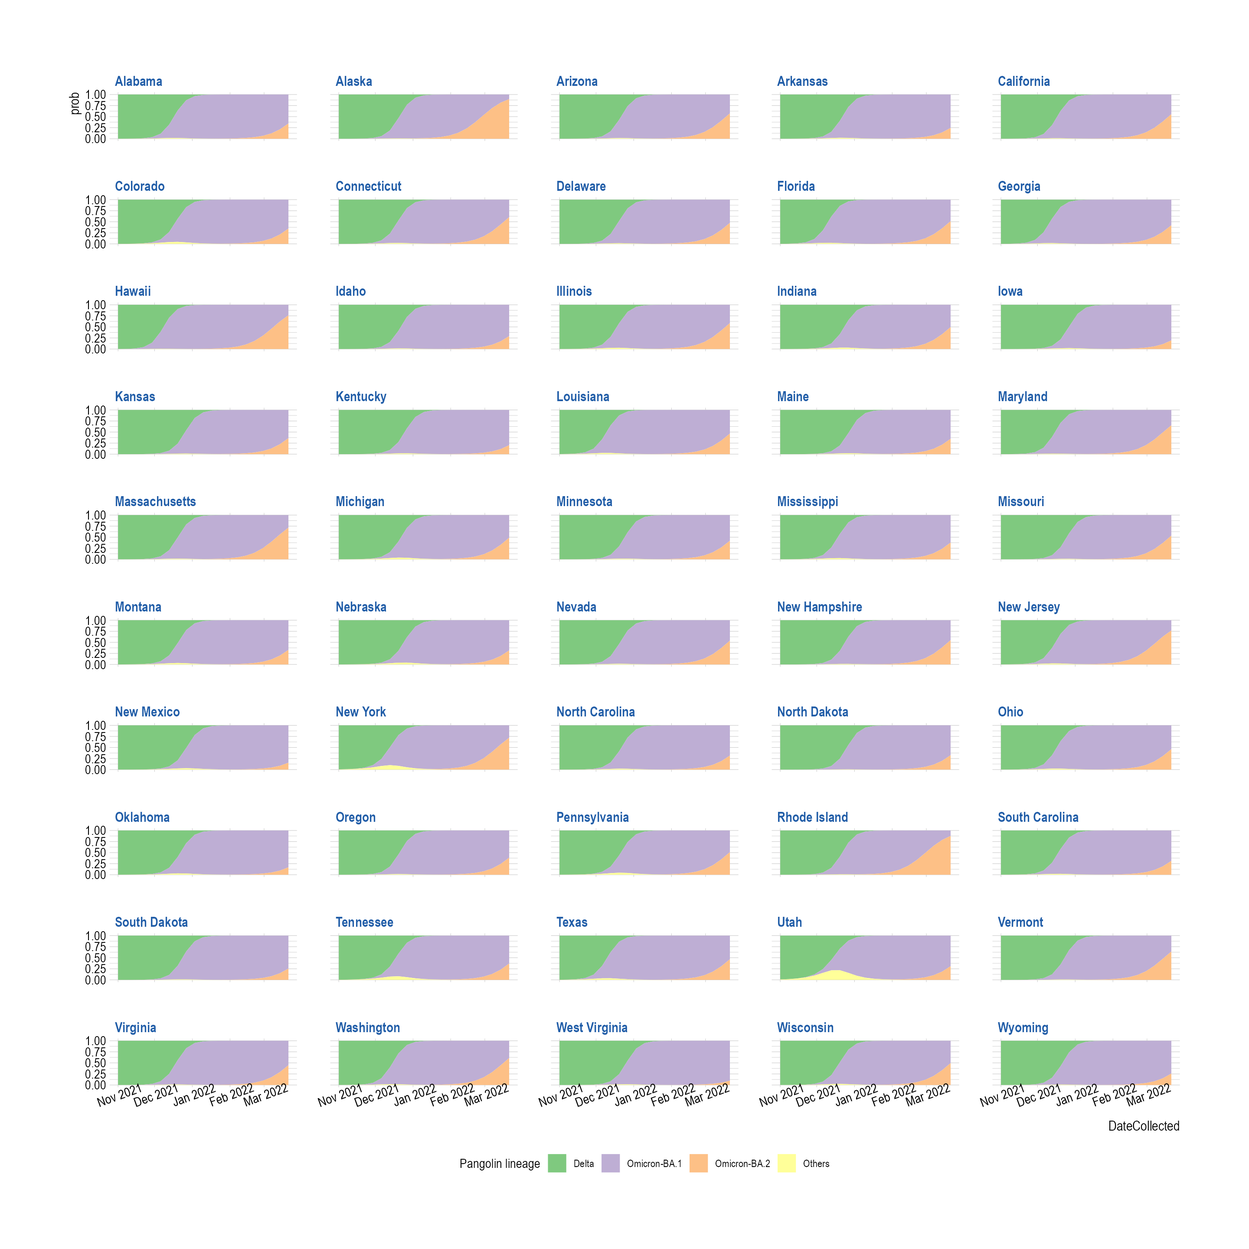
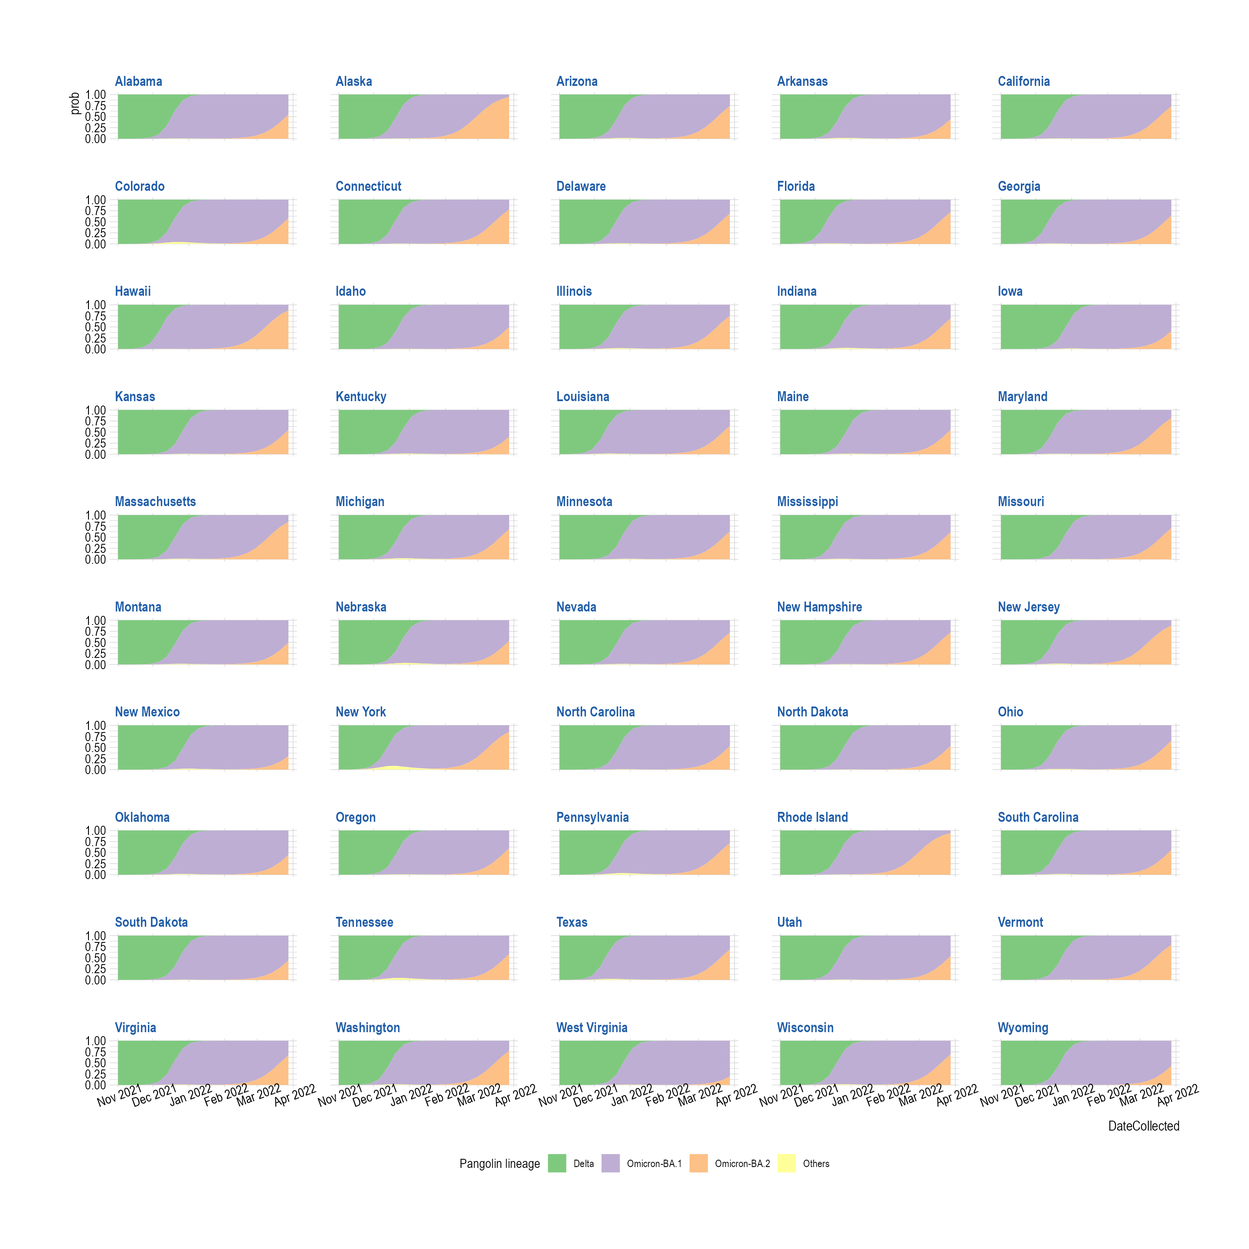
Update VOCs

diff --git a/docs/articles/MultinomialModeling_USA.html b/docs/articles/MultinomialModeling_USA.html
@@ -114,62 +114,59 @@
 <span class="co">##   <span style="color: #949494; font-style: italic;">&lt;chr&gt;</span>                  <span style="color: #949494; font-style: italic;">&lt;dbl&gt;</span> <span style="color: #949494; font-style: italic;">&lt;chr&gt;</span>             <span style="color: #949494; font-style: italic;">&lt;int&gt;</span></span>
 <span class="co">## <span style="color: #BCBCBC;">1</span> Alabama                <span style="text-decoration: underline;">18</span>932 Delta                15</span>
 <span class="co">## <span style="color: #BCBCBC;">2</span> Alabama                <span style="text-decoration: underline;">18</span>933 Delta                 9</span>
-<span class="co">## <span style="color: #BCBCBC;">3</span> Alabama                <span style="text-decoration: underline;">18</span>934 Delta                 9</span>
-<span class="co">## <span style="color: #BCBCBC;">4</span> Alabama                <span style="text-decoration: underline;">18</span>934 Others                1</span>
-<span class="co">## <span style="color: #BCBCBC;">5</span> Alabama                <span style="text-decoration: underline;">18</span>935 Delta                 8</span>
-<span class="co">## <span style="color: #BCBCBC;">6</span> Alabama                <span style="text-decoration: underline;">18</span>935 Others                1</span></code></pre>
+<span class="co">## <span style="color: #BCBCBC;">3</span> Alabama                <span style="text-decoration: underline;">18</span>934 Delta                10</span>
+<span class="co">## <span style="color: #BCBCBC;">4</span> Alabama                <span style="text-decoration: underline;">18</span>935 Delta                 8</span>
+<span class="co">## <span style="color: #BCBCBC;">5</span> Alabama                <span style="text-decoration: underline;">18</span>935 Others                1</span>
+<span class="co">## <span style="color: #BCBCBC;">6</span> Alabama                <span style="text-decoration: underline;">18</span>936 Delta                 8</span></code></pre>
 <div class="sourceCode" id="cb4"><pre class="downlit sourceCode r">
 <code class="sourceCode R"><span class="va">fit_usa_multi_predsbystate</span> <span class="op">&lt;-</span> <span class="fu">FitMultinomStatewiseDaily</span><span class="op">(</span><span class="va">gisaid_usa_shared_dateweek</span><span class="op">)</span></code></pre></div>
 <pre><code><span class="co">## # weights:  208 (153 variable)</span>
-<span class="co">## initial  value 1645956.999018 </span>
-<span class="co">## iter  10 value 898148.852584</span>
-<span class="co">## iter  20 value 887162.800140</span>
-<span class="co">## iter  30 value 743431.540208</span>
-<span class="co">## iter  40 value 679778.894247</span>
-<span class="co">## iter  50 value 655496.925840</span>
-<span class="co">## iter  60 value 585270.119715</span>
-<span class="co">## iter  70 value 542408.200742</span>
-<span class="co">## iter  80 value 500435.603800</span>
-<span class="co">## iter  90 value 477352.731822</span>
-<span class="co">## iter 100 value 455988.109671</span>
-<span class="co">## iter 110 value 435262.996021</span>
-<span class="co">## iter 120 value 415752.600467</span>
-<span class="co">## iter 130 value 399266.612298</span>
-<span class="co">## iter 140 value 374075.101389</span>
-<span class="co">## iter 150 value 353088.577738</span>
-<span class="co">## iter 160 value 324769.815968</span>
-<span class="co">## iter 170 value 294493.181721</span>
-<span class="co">## iter 180 value 286831.021889</span>
-<span class="co">## iter 190 value 283915.092854</span>
-<span class="co">## iter 200 value 282438.647238</span>
-<span class="co">## iter 210 value 282090.322165</span>
-<span class="co">## iter 220 value 281915.834934</span>
-<span class="co">## iter 230 value 281779.033841</span>
-<span class="co">## iter 240 value 281716.271740</span>
-<span class="co">## iter 250 value 281671.841530</span>
-<span class="co">## iter 260 value 281656.350666</span>
-<span class="co">## iter 270 value 281654.222134</span>
-<span class="co">## iter 280 value 281653.950036</span>
-<span class="co">## iter 280 value 281653.947454</span>
-<span class="co">## iter 280 value 281653.947344</span>
-<span class="co">## final  value 281653.947344 </span>
+<span class="co">## initial  value 1687594.350154 </span>
+<span class="co">## iter  10 value 925465.614996</span>
+<span class="co">## iter  20 value 917280.105999</span>
+<span class="co">## iter  30 value 795044.630373</span>
+<span class="co">## iter  40 value 728060.245292</span>
+<span class="co">## iter  50 value 695798.601743</span>
+<span class="co">## iter  60 value 642618.609568</span>
+<span class="co">## iter  70 value 599340.901424</span>
+<span class="co">## iter  80 value 558243.783763</span>
+<span class="co">## iter  90 value 537490.374438</span>
+<span class="co">## iter 100 value 503042.277002</span>
+<span class="co">## iter 110 value 478068.068205</span>
+<span class="co">## iter 120 value 454750.348072</span>
+<span class="co">## iter 130 value 422877.848441</span>
+<span class="co">## iter 140 value 389541.690425</span>
+<span class="co">## iter 150 value 355746.411211</span>
+<span class="co">## iter 160 value 328733.036681</span>
+<span class="co">## iter 170 value 299042.288814</span>
+<span class="co">## iter 180 value 289222.430981</span>
+<span class="co">## iter 190 value 283633.097198</span>
+<span class="co">## iter 200 value 280731.927205</span>
+<span class="co">## iter 210 value 279901.767003</span>
+<span class="co">## iter 220 value 279732.729203</span>
+<span class="co">## iter 230 value 279686.394327</span>
+<span class="co">## iter 240 value 279649.271045</span>
+<span class="co">## iter 250 value 279629.879262</span>
+<span class="co">## iter 260 value 279624.034306</span>
+<span class="co">## iter 270 value 279623.693894</span>
+<span class="co">## final  value 279623.688223 </span>
 <span class="co">## converged</span></code></pre>
 <div class="sourceCode" id="cb6"><pre class="downlit sourceCode r">
 <code class="sourceCode R"><span class="fu"><a href="https://rdrr.io/r/utils/head.html" class="external-link">head</a></span><span class="op">(</span><span class="va">fit_usa_multi_predsbystate</span><span class="op">)</span></code></pre></div>
 <pre><code><span class="co">##   lineage_collapsed DateCollectedNumeric   State         prob           SE df</span>
-<span class="co">## 1             Delta                18932 Alabama 9.993124e-01 5.565615e-06 NA</span>
-<span class="co">## 2      Omicron-BA.1                18932 Alabama 1.328092e-04 5.724576e-07 NA</span>
-<span class="co">## 3      Omicron-BA.2                18932 Alabama 1.042601e-10 9.732116e-13 NA</span>
-<span class="co">## 4            Others                18932 Alabama 5.548185e-04 5.394268e-06 NA</span>
-<span class="co">## 5             Delta                18939 Alabama 9.984420e-01 1.091959e-05 NA</span>
-<span class="co">## 6      Omicron-BA.1                18939 Alabama 5.134192e-04 2.212392e-06 NA</span>
+<span class="co">## 1             Delta                18932 Alabama 9.998832e-01 5.557255e-07 NA</span>
+<span class="co">## 2      Omicron-BA.1                18932 Alabama 9.053178e-05 3.941524e-07 NA</span>
+<span class="co">## 3      Omicron-BA.2                18932 Alabama 4.978320e-11 4.315190e-13 NA</span>
+<span class="co">## 4            Others                18932 Alabama 2.622329e-05 2.955617e-07 NA</span>
+<span class="co">## 5             Delta                18939 Alabama 9.995640e-01 1.962904e-06 NA</span>
+<span class="co">## 6      Omicron-BA.1                18939 Alabama 3.679577e-04 1.602093e-06 NA</span>
 <span class="co">##      asymp.LCL    asymp.UCL DateCollected</span>
-<span class="co">## 1 9.993015e-01 9.993233e-01    2021-11-01</span>
-<span class="co">## 2 1.316872e-04 1.339312e-04    2021-11-01</span>
-<span class="co">## 3 1.023527e-10 1.061676e-10    2021-11-01</span>
-<span class="co">## 4 5.442459e-04 5.653910e-04    2021-11-01</span>
-<span class="co">## 5 9.984206e-01 9.984634e-01    2021-11-08</span>
-<span class="co">## 6 5.090830e-04 5.177554e-04    2021-11-08</span></code></pre>
+<span class="co">## 1 9.998822e-01 9.998843e-01    2021-11-01</span>
+<span class="co">## 2 8.975925e-05 9.130430e-05    2021-11-01</span>
+<span class="co">## 3 4.893744e-11 5.062896e-11    2021-11-01</span>
+<span class="co">## 4 2.564400e-05 2.680258e-05    2021-11-01</span>
+<span class="co">## 5 9.995601e-01 9.995678e-01    2021-11-08</span>
+<span class="co">## 6 3.648176e-04 3.710977e-04    2021-11-08</span></code></pre>
 <div class="section level2">
 <h2 id="plot-smooth-muller-plots">Plot Smooth Muller Plots<a class="anchor" aria-label="anchor" href="#plot-smooth-muller-plots"></a>
 </h2>

diff --git a/docs/articles/MultinomialModeling_India.html b/docs/articles/MultinomialModeling_India.html
@@ -121,43 +121,45 @@
 <div class="sourceCode" id="cb4"><pre class="downlit sourceCode r">
 <code class="sourceCode R"><span class="va">fit_india_multi_predsbystate</span> <span class="op">&lt;-</span> <span class="fu">FitMultinomStatewiseDaily</span><span class="op">(</span><span class="va">gisaid_india_shared_dateweek</span><span class="op">)</span></code></pre></div>
 <pre><code><span class="co">## # weights:  152 (111 variable)</span>
-<span class="co">## initial  value 82111.601303 </span>
-<span class="co">## iter  10 value 64150.912064</span>
-<span class="co">## iter  20 value 62639.678672</span>
-<span class="co">## iter  30 value 61211.097643</span>
-<span class="co">## iter  40 value 60061.457270</span>
-<span class="co">## iter  50 value 58247.714949</span>
-<span class="co">## iter  60 value 54144.268962</span>
-<span class="co">## iter  70 value 49209.958748</span>
-<span class="co">## iter  80 value 46462.544702</span>
-<span class="co">## iter  90 value 44649.653482</span>
-<span class="co">## iter 100 value 43275.356893</span>
-<span class="co">## iter 110 value 40959.192442</span>
-<span class="co">## iter 120 value 39052.423747</span>
-<span class="co">## iter 130 value 38505.957307</span>
-<span class="co">## iter 140 value 38316.970938</span>
-<span class="co">## iter 150 value 38198.678679</span>
-<span class="co">## iter 160 value 38111.806225</span>
-<span class="co">## iter 170 value 38111.333713</span>
-<span class="co">## iter 180 value 38111.196498</span>
-<span class="co">## final  value 38111.181895 </span>
+<span class="co">## initial  value 88372.106638 </span>
+<span class="co">## iter  10 value 69889.391942</span>
+<span class="co">## iter  20 value 68058.883807</span>
+<span class="co">## iter  30 value 65562.399815</span>
+<span class="co">## iter  40 value 64184.441542</span>
+<span class="co">## iter  50 value 61457.573892</span>
+<span class="co">## iter  60 value 55914.991142</span>
+<span class="co">## iter  70 value 50532.127068</span>
+<span class="co">## iter  80 value 48591.856381</span>
+<span class="co">## iter  90 value 47013.898816</span>
+<span class="co">## iter 100 value 45273.966416</span>
+<span class="co">## iter 110 value 42338.717051</span>
+<span class="co">## iter 120 value 40509.337536</span>
+<span class="co">## iter 130 value 40179.675285</span>
+<span class="co">## iter 140 value 39955.133459</span>
+<span class="co">## iter 150 value 39905.435526</span>
+<span class="co">## iter 160 value 39901.037055</span>
+<span class="co">## iter 170 value 39900.782053</span>
+<span class="co">## iter 180 value 39900.740273</span>
+<span class="co">## iter 180 value 39900.739997</span>
+<span class="co">## iter 180 value 39900.739997</span>
+<span class="co">## final  value 39900.739997 </span>
 <span class="co">## converged</span></code></pre>
 <div class="sourceCode" id="cb6"><pre class="downlit sourceCode r">
 <code class="sourceCode R"><span class="fu"><a href="https://rdrr.io/r/utils/head.html" class="external-link">head</a></span><span class="op">(</span><span class="va">fit_india_multi_predsbystate</span><span class="op">)</span></code></pre></div>
 <pre><code><span class="co">##   lineage_collapsed DateCollectedNumeric             State         prob</span>
-<span class="co">## 1             Delta                18932 Andaman &amp; Nicobar 9.957635e-01</span>
-<span class="co">## 2      Omicron-BA.1                18932 Andaman &amp; Nicobar 4.160660e-03</span>
-<span class="co">## 3      Omicron-BA.2                18932 Andaman &amp; Nicobar 7.513713e-05</span>
-<span class="co">## 4            Others                18932 Andaman &amp; Nicobar 7.018545e-07</span>
-<span class="co">## 5             Delta                18939 Andaman &amp; Nicobar 9.915148e-01</span>
-<span class="co">## 6      Omicron-BA.1                18939 Andaman &amp; Nicobar 8.220825e-03</span>
+<span class="co">## 1             Delta                18932 Andaman &amp; Nicobar 9.953859e-01</span>
+<span class="co">## 2      Omicron-BA.1                18932 Andaman &amp; Nicobar 4.529199e-03</span>
+<span class="co">## 3      Omicron-BA.2                18932 Andaman &amp; Nicobar 8.405564e-05</span>
+<span class="co">## 4            Others                18932 Andaman &amp; Nicobar 8.302971e-07</span>
+<span class="co">## 5             Delta                18939 Andaman &amp; Nicobar 9.908626e-01</span>
+<span class="co">## 6      Omicron-BA.1                18939 Andaman &amp; Nicobar 8.845911e-03</span>
 <span class="co">##             SE df    asymp.LCL    asymp.UCL DateCollected</span>
-<span class="co">## 1 7.252181e-05 NA 9.956214e-01 9.959056e-01    2021-11-01</span>
-<span class="co">## 2 7.170902e-05 NA 4.020113e-03 4.301207e-03    2021-11-01</span>
-<span class="co">## 3 1.267738e-06 NA 7.265241e-05 7.762186e-05    2021-11-01</span>
-<span class="co">## 4 1.418181e-08 NA 6.740586e-07 7.296503e-07    2021-11-01</span>
-<span class="co">## 5 1.439784e-04 NA 9.912326e-01 9.917970e-01    2021-11-08</span>
-<span class="co">## 6 1.411439e-04 NA 7.944188e-03 8.497462e-03    2021-11-08</span></code></pre>
+<span class="co">## 1 7.632791e-05 NA 9.952363e-01 9.955355e-01    2021-11-01</span>
+<span class="co">## 2 7.545809e-05 NA 4.381304e-03 4.677094e-03    2021-11-01</span>
+<span class="co">## 3 1.364547e-06 NA 8.138118e-05 8.673010e-05    2021-11-01</span>
+<span class="co">## 4 1.652408e-08 NA 7.979105e-07 8.626837e-07    2021-11-01</span>
+<span class="co">## 5 1.497611e-04 NA 9.905690e-01 9.911561e-01    2021-11-08</span>
+<span class="co">## 6 1.467725e-04 NA 8.558243e-03 9.133580e-03    2021-11-08</span></code></pre>
 <div class="section level2">
 <h2 id="plot-smooth-muller-plots">Plot Smooth Muller Plots<a class="anchor" aria-label="anchor" href="#plot-smooth-muller-plots"></a>
 </h2>

diff --git a/docs/articles/Introduction.html b/docs/articles/Introduction.html
@@ -119,8 +119,8 @@
 <h2 id="read-variant-data-from-gisaid">Read variant data from GISAID<a class="anchor" aria-label="anchor" href="#read-variant-data-from-gisaid"></a>
 </h2>
 <div class="sourceCode" id="cb5"><pre class="downlit sourceCode r">
-<code class="sourceCode R"><span class="va">gisaid_metadata</span> <span class="op">&lt;-</span> <span class="fu"><a href="../reference/ReadGISAIDMetada.html">ReadGISAIDMetada</a></span><span class="op">(</span>path <span class="op">=</span> <span class="st">"~/github/2021_Covid19_surveillance/data/all_metadata/metadata_tsv_2022_03_31.tar.xz"</span><span class="op">)</span>
-<span class="fu">qs</span><span class="fu">::</span><span class="fu"><a href="https://rdrr.io/pkg/qs/man/qsave.html" class="external-link">qsave</a></span><span class="op">(</span><span class="va">gisaid_metadata</span>, <span class="st">"~/github/2021_Covid19_surveillance/data/all_metadata/metadata_tsv_2022_03_31.qs"</span><span class="op">)</span></code></pre></div>
+<code class="sourceCode R"><span class="va">gisaid_metadata</span> <span class="op">&lt;-</span> <span class="fu"><a href="../reference/ReadGISAIDMetada.html">ReadGISAIDMetada</a></span><span class="op">(</span>path <span class="op">=</span> <span class="st">"~/github/2021_Covid19_surveillance/data/all_metadata/metadata_tsv_2022_04_07.tar.xz"</span><span class="op">)</span>
+<span class="fu">qs</span><span class="fu">::</span><span class="fu"><a href="https://rdrr.io/pkg/qs/man/qsave.html" class="external-link">qsave</a></span><span class="op">(</span><span class="va">gisaid_metadata</span>, <span class="st">"~/github/2021_Covid19_surveillance/data/all_metadata/metadata_tsv_2022_04_07.qs"</span><span class="op">)</span></code></pre></div>
 <div class="section level3">
 <h3 id="plot-total-sequenced-cases">Plot total sequenced cases<a class="anchor" aria-label="anchor" href="#plot-total-sequenced-cases"></a>
 </h3>
@@ -179,11 +179,20 @@
 <span class="va">india_month_counts</span><span class="op">$</span><span class="va">State</span> <span class="op">&lt;-</span> <span class="st">"India"</span>
 <span class="va">india_month_prevalence</span> <span class="op">&lt;-</span> <span class="fu"><a href="../reference/CountsToPrevalence.html">CountsToPrevalence</a></span><span class="op">(</span><span class="va">india_month_counts</span><span class="op">)</span>
 <span class="va">vocs</span> <span class="op">&lt;-</span> <span class="fu"><a href="../reference/GetVOCs.html">GetVOCs</a></span><span class="op">(</span><span class="op">)</span>
+<span class="va">omicron</span> <span class="op">&lt;-</span> <span class="va">vocs</span><span class="op">[[</span><span class="st">"omicron"</span><span class="op">]</span><span class="op">]</span>
+
 <span class="va">vocs</span><span class="op">[[</span><span class="st">"omicron"</span><span class="op">]</span><span class="op">]</span> <span class="op">&lt;-</span> <span class="cn">NULL</span>
 <span class="va">custom_voc_mapping</span> <span class="op">&lt;-</span> <span class="fu"><a href="https://rdrr.io/r/base/list.html" class="external-link">list</a></span><span class="op">(</span>
   `BA.1.1` <span class="op">=</span> <span class="st">"Omicron-BA.1.1"</span>, `BA.1` <span class="op">=</span> <span class="st">"Omicron-BA.1"</span>,
   `BA.2` <span class="op">=</span> <span class="st">"Omicron-BA.2"</span>
 <span class="op">)</span>
+<span class="kw">for</span> <span class="op">(</span><span class="va">omi</span> <span class="kw">in</span> <span class="va">omicron</span><span class="op">)</span> <span class="op">{</span>
+  <span class="kw">if</span> <span class="op">(</span><span class="fu"><a href="https://rdrr.io/r/base/grep.html" class="external-link">grepl</a></span><span class="op">(</span>pattern <span class="op">=</span> <span class="st">"^BA.1"</span>, x <span class="op">=</span> <span class="va">omi</span><span class="op">)</span><span class="op">)</span> <span class="op">{</span>
+    <span class="va">custom_voc_mapping</span><span class="op">[[</span><span class="va">omi</span><span class="op">]</span><span class="op">]</span> <span class="op">&lt;-</span> <span class="st">"Omicron-BA.1"</span>
+  <span class="op">}</span> <span class="kw">else</span> <span class="kw">if</span> <span class="op">(</span><span class="fu"><a href="https://rdrr.io/r/base/grep.html" class="external-link">grepl</a></span><span class="op">(</span>pattern <span class="op">=</span> <span class="st">"^BA.2"</span>, x <span class="op">=</span> <span class="va">omi</span><span class="op">)</span><span class="op">)</span> <span class="op">{</span>
+    <span class="va">custom_voc_mapping</span><span class="op">[[</span><span class="va">omi</span><span class="op">]</span><span class="op">]</span> <span class="op">&lt;-</span> <span class="st">"Omicron-BA.2"</span>
+  <span class="op">}</span>
+<span class="op">}</span>
 <span class="va">india_month_prevalence</span> <span class="op">&lt;-</span> <span class="fu"><a href="../reference/CollapseLineageToVOCs.html">CollapseLineageToVOCs</a></span><span class="op">(</span>
   variant_df <span class="op">=</span> <span class="va">india_month_prevalence</span>,
   vocs <span class="op">=</span> <span class="va">vocs</span>,

diff --git a/docs/articles/MultinomialModeling_Canada.html b/docs/articles/MultinomialModeling_Canada.html
@@ -121,31 +121,37 @@
 <div class="sourceCode" id="cb4"><pre class="downlit sourceCode r">
 <code class="sourceCode R"><span class="va">fit_canada_multi_predsbystate</span> <span class="op">&lt;-</span> <span class="fu">FitMultinomStatewiseDaily</span><span class="op">(</span><span class="va">gisaid_canada_shared_dateweek</span><span class="op">)</span></code></pre></div>
 <pre><code><span class="co">## # weights:  44 (30 variable)</span>
-<span class="co">## initial  value 128343.131952 </span>
-<span class="co">## iter  10 value 77669.829717</span>
-<span class="co">## iter  20 value 74847.477712</span>
-<span class="co">## iter  30 value 60729.815162</span>
-<span class="co">## iter  40 value 47417.734933</span>
-<span class="co">## iter  50 value 31129.633928</span>
-<span class="co">## iter  60 value 30857.339589</span>
-<span class="co">## final  value 30825.348688 </span>
+<span class="co">## initial  value 134022.779950 </span>
+<span class="co">## iter  10 value 100568.112939</span>
+<span class="co">## iter  20 value 85148.858423</span>
+<span class="co">## iter  30 value 76928.153852</span>
+<span class="co">## iter  40 value 46460.929344</span>
+<span class="co">## iter  50 value 34700.771387</span>
+<span class="co">## iter  60 value 33930.276470</span>
+<span class="co">## iter  70 value 33826.670102</span>
+<span class="co">## iter  80 value 33187.196687</span>
+<span class="co">## iter  90 value 33003.740476</span>
+<span class="co">## iter 100 value 32974.244617</span>
+<span class="co">## iter 110 value 32950.090546</span>
+<span class="co">## iter 120 value 32918.959243</span>
+<span class="co">## final  value 32918.506131 </span>
 <span class="co">## converged</span></code></pre>
 <div class="sourceCode" id="cb6"><pre class="downlit sourceCode r">
 <code class="sourceCode R"><span class="fu"><a href="https://rdrr.io/r/utils/head.html" class="external-link">head</a></span><span class="op">(</span><span class="va">fit_canada_multi_predsbystate</span><span class="op">)</span></code></pre></div>
 <pre><code><span class="co">##   lineage_collapsed DateCollectedNumeric   State         prob           SE df</span>
-<span class="co">## 1             Delta                18932 Alberta 9.998378e-01 2.252370e-06 NA</span>
-<span class="co">## 2      Omicron-BA.1                18932 Alberta 1.621163e-04 2.250777e-06 NA</span>
-<span class="co">## 3      Omicron-BA.2                18932 Alberta 1.156764e-07 2.444041e-09 NA</span>
-<span class="co">## 4            Others                18932 Alberta 3.868919e-13 3.331689e-14 NA</span>
-<span class="co">## 5             Delta                18939 Alberta 9.993684e-01 8.768450e-06 NA</span>
-<span class="co">## 6      Omicron-BA.1                18939 Alberta 6.309682e-04 8.759307e-06 NA</span>
+<span class="co">## 1             Delta                18932 Alberta 9.996214e-01 1.836766e-05 NA</span>
+<span class="co">## 2      Omicron-BA.1                18932 Alberta 1.628662e-04 2.262730e-06 NA</span>
+<span class="co">## 3      Omicron-BA.2                18932 Alberta 8.491664e-08 1.705185e-09 NA</span>
+<span class="co">## 4            Others                18932 Alberta 2.156527e-04 1.817791e-05 NA</span>
+<span class="co">## 5             Delta                18939 Alberta 9.991435e-01 2.056555e-05 NA</span>
+<span class="co">## 6      Omicron-BA.1                18939 Alberta 6.382358e-04 8.866183e-06 NA</span>
 <span class="co">##      asymp.LCL    asymp.UCL DateCollected</span>
-<span class="co">## 1 9.998334e-01 9.998422e-01    2021-11-01</span>
-<span class="co">## 2 1.577049e-04 1.665278e-04    2021-11-01</span>
-<span class="co">## 3 1.108861e-07 1.204666e-07    2021-11-01</span>
-<span class="co">## 4 3.215920e-13 4.521918e-13    2021-11-01</span>
-<span class="co">## 5 9.993512e-01 9.993856e-01    2021-11-08</span>
-<span class="co">## 6 6.138003e-04 6.481361e-04    2021-11-08</span></code></pre>
+<span class="co">## 1 9.995854e-01 9.996574e-01    2021-11-01</span>
+<span class="co">## 2 1.584313e-04 1.673011e-04    2021-11-01</span>
+<span class="co">## 3 8.157454e-08 8.825874e-08    2021-11-01</span>
+<span class="co">## 4 1.800247e-04 2.512808e-04    2021-11-01</span>
+<span class="co">## 5 9.991032e-01 9.991838e-01    2021-11-08</span>
+<span class="co">## 6 6.208584e-04 6.556132e-04    2021-11-08</span></code></pre>
 <div class="section level2">
 <h2 id="plot-smooth-muller-plots">Plot Smooth Muller Plots<a class="anchor" aria-label="anchor" href="#plot-smooth-muller-plots"></a>
 </h2>
